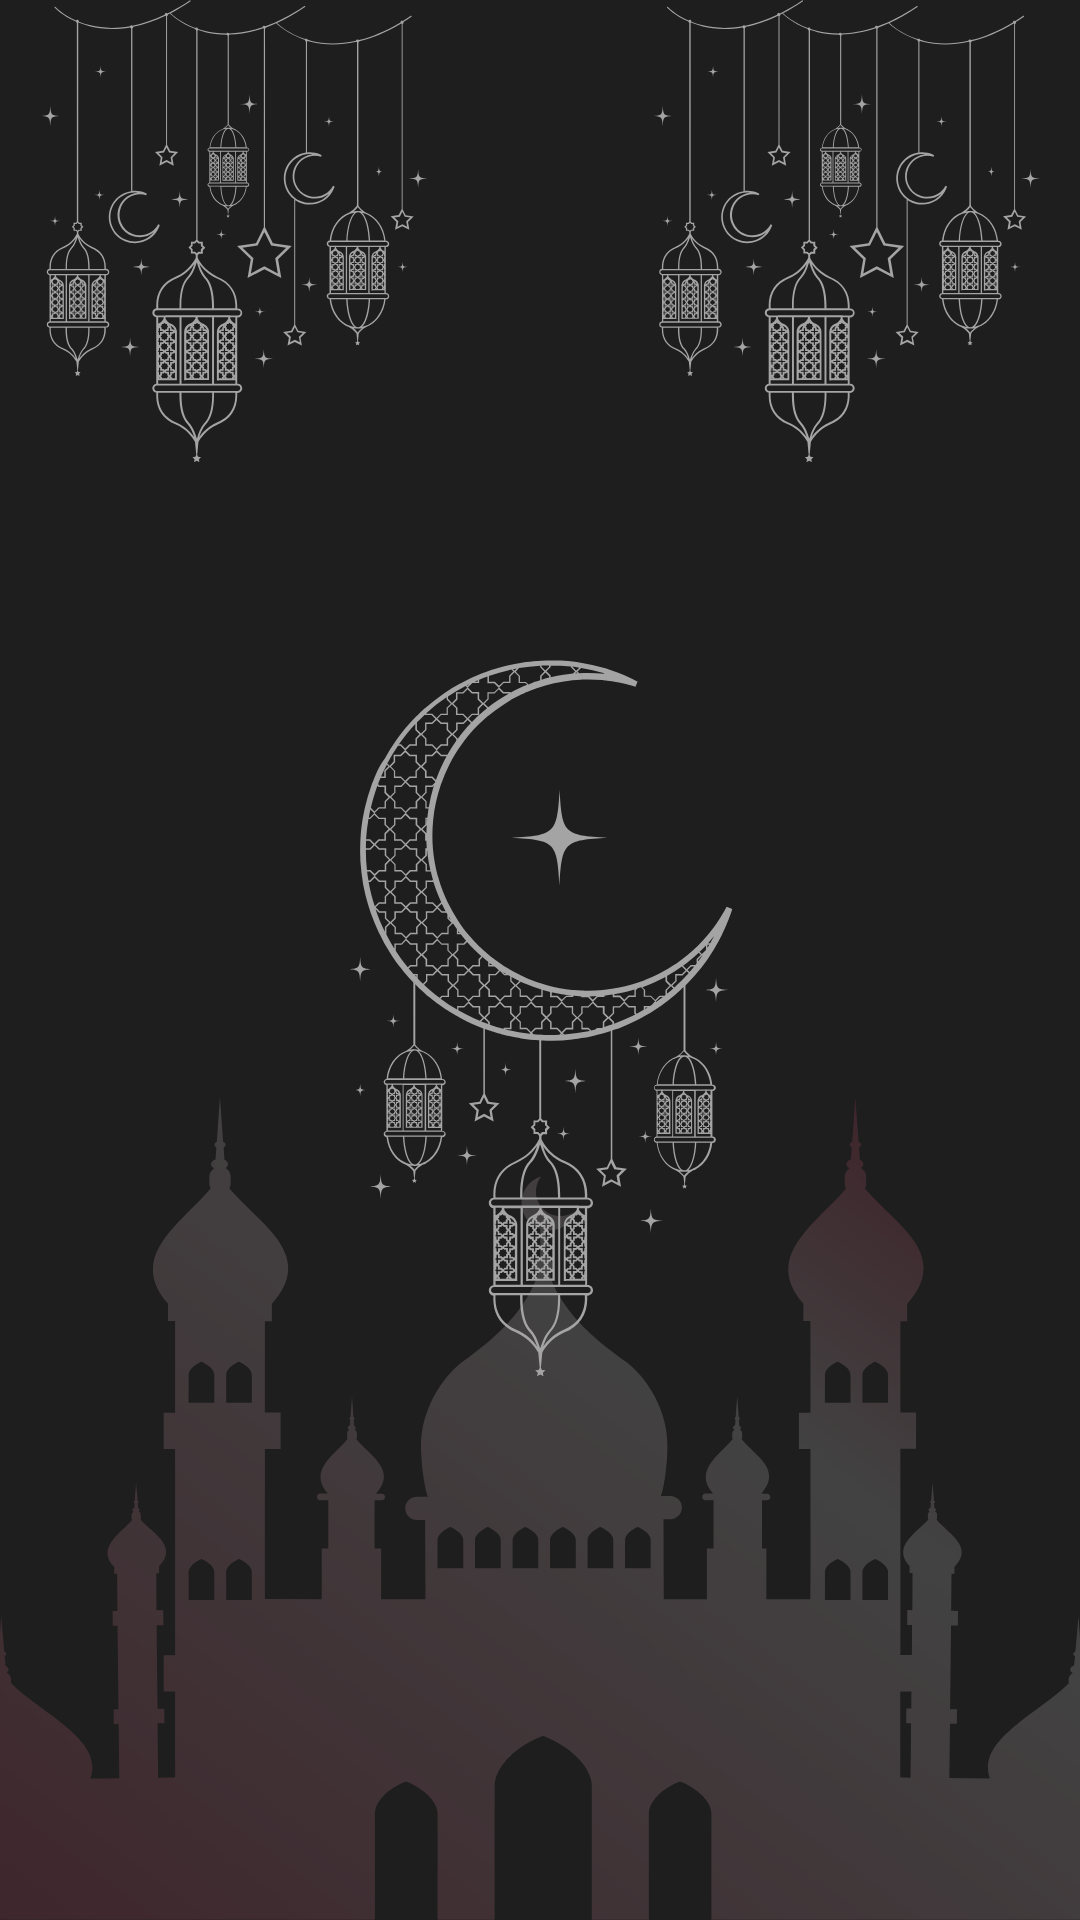
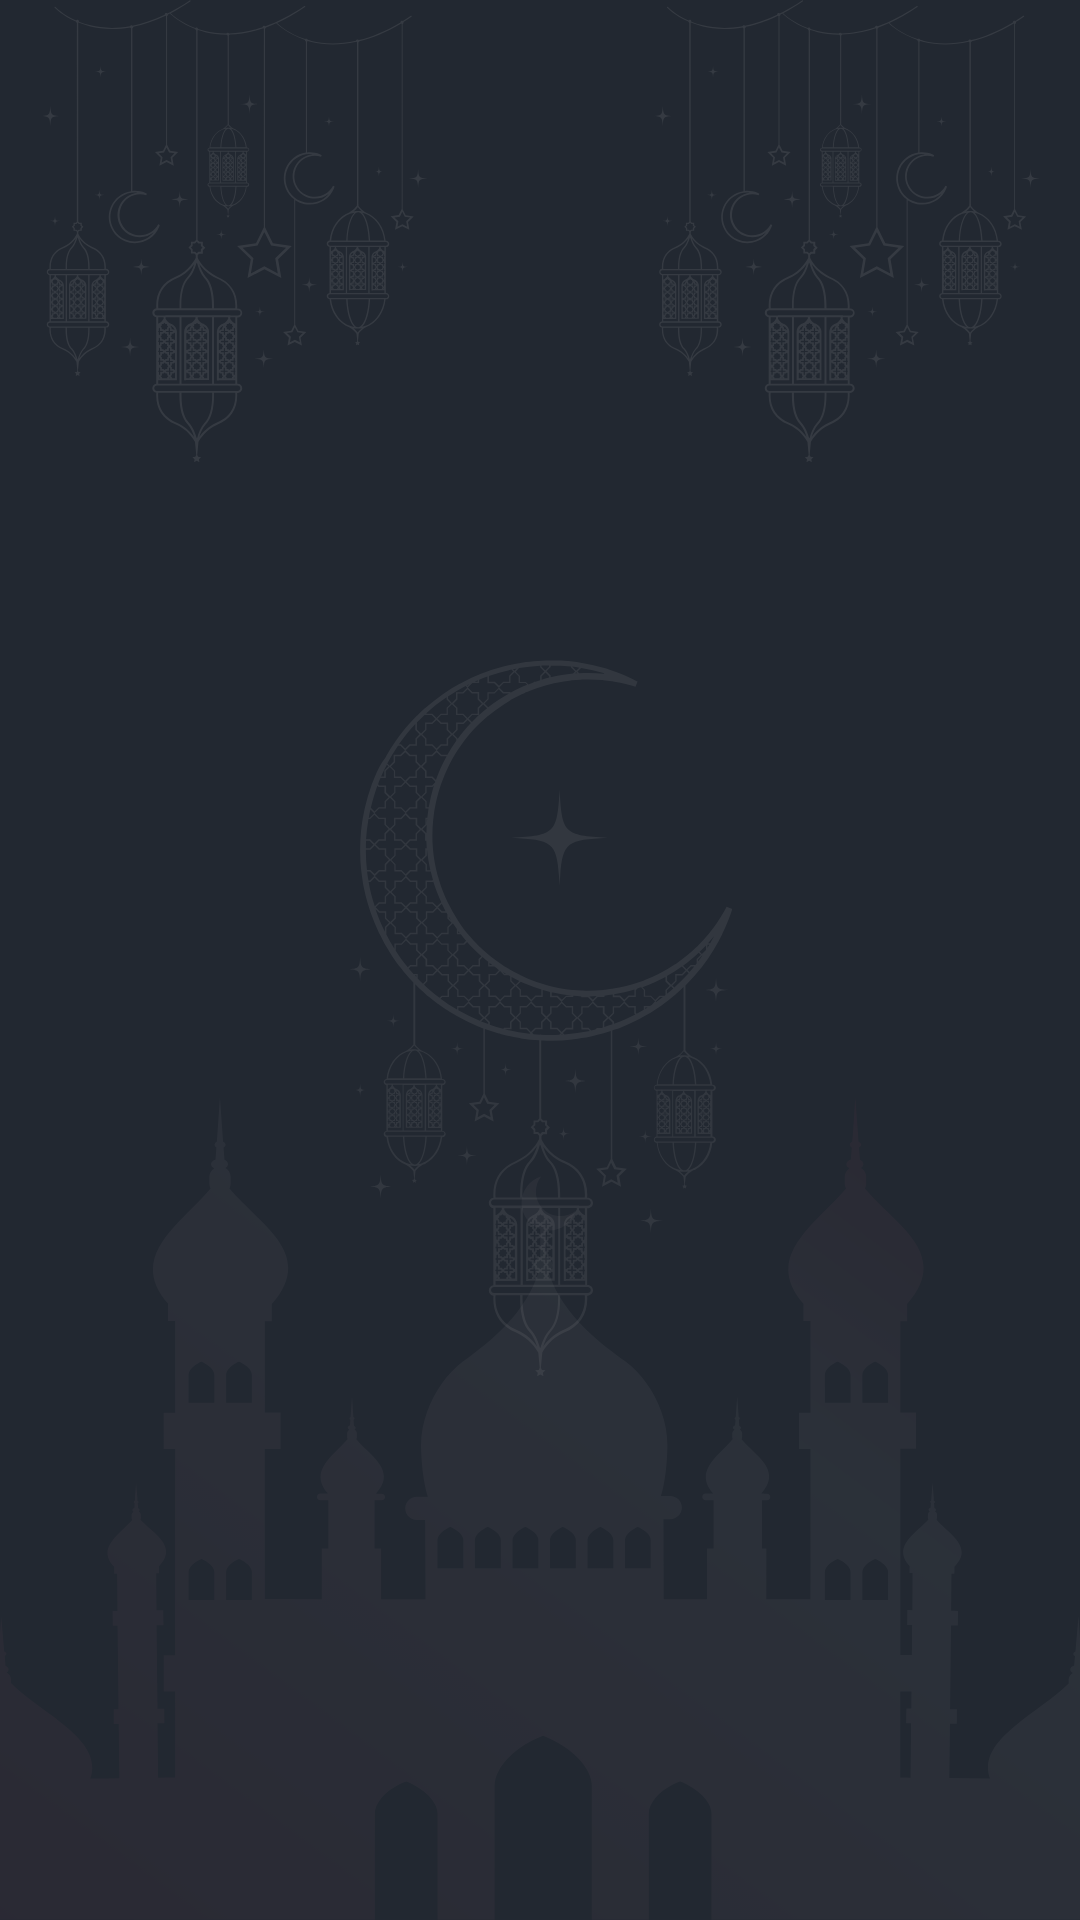
Dark Theme Added

diff --git a/src/app/(tabs)/settings.tsx b/src/app/(tabs)/settings.tsx
@@ -1,48 +1,40 @@
-import { Switch, Text, View, TouchableOpacity, useColorScheme } from 'react-native';
+import { Switch, Text, View, TouchableOpacity } from 'react-native';
 import React, { useEffect, useState } from 'react';
 import { MaterialIcons } from '@expo/vector-icons';
-import AsyncStorage from '@react-native-async-storage/async-storage';
 import { router } from 'expo-router';
+import AsyncStorage from '@react-native-async-storage/async-storage';
+import { useColorScheme } from 'nativewind';
 
 export default function settings() {
-  const deviceColorScheme = useColorScheme(); // Cihazın genel tema tercihini al
-  const [isDarkModeEnabled, setisDarkModeEnabled] = useState(deviceColorScheme === 'dark'); // Default tema tercihi
+  const { toggleColorScheme, colorScheme } = useColorScheme();
 
-  useEffect(() => {
-    // AsyncStorage'den kaydedilmiş tema tercihini al
-    const fetchThemePreference = async () => {
-      try {
-        const storedThemePreference = await AsyncStorage.getItem('darkModeEnabled');
-        setisDarkModeEnabled(storedThemePreference === 'true');
-      } catch (error) {
-        console.error('Error fetching theme preference:', error);
-      }
-    };
-
-    fetchThemePreference();
-  }, []);
-
-  const toggleSwitch = () => {
-    setisDarkModeEnabled((previousState) => !previousState);
-    AsyncStorage.setItem('darkModeEnabled', String(!isDarkModeEnabled)); // Koyu mod durumunu sakla
-    console.warn(isDarkModeEnabled);
+  const toggleSwitch = async () => {
+    try {
+      await AsyncStorage.setItem('mode', colorScheme === 'light' ? 'dark' : 'light');
+      toggleColorScheme();
+    } catch (error) {
+      console.error('Error saving mode:', error);
+    }
   };
 
   return (
-    <View
-      className={`flex-1 justify-center items-center p-16 ${isDarkModeEnabled ? 'bg-[#525252]' : 'bg-[#FFFFFF]'}`}>
-      <View className="flex-row bg-[#EDEDED] w-full h-14 rounded-xl justify-between items-center pl-5">
-        <Text className="font-semibold text-[textColor]">Koyu Mod</Text>
+    <View className="flex-1 justify-center items-center p-16 bg-light-background dark:bg-dark-background">
+      <View className="flex-row bg-light-settingsItem dark:bg-dark-settingsItem w-full h-14 rounded-xl justify-between items-center pl-5">
+        <Text className="font-semibold text-light-secondary dark:text-dark-secondary">
+          Koyu Mod
+        </Text>
         <Switch
           trackColor={{ false: '#DDDDDD', true: '#171717' }}
-          thumbColor={isDarkModeEnabled ? '#DA0037' : '#DA0037'}
+          thumbColor={'#DA0037'}
           ios_backgroundColor="#444444"
           onValueChange={toggleSwitch}
-          value={isDarkModeEnabled}
+          value={colorScheme == 'light' ? false : true}
         />
       </View>
-      <View className="flex-row bg-[#EDEDED] w-full h-14 rounded-xl justify-between items-center pl-5 mt-5">
-        <Text className="font-semibold text-[textColor]">Uygulamayı Sıfırla</Text>
+      <View className="flex-row bg-light-settingsItem dark:bg-dark-settingsItem w-full h-14 rounded-xl justify-between items-center pl-5 mt-5">
+        <Text className="font-semibold text-light-secondary dark:text-dark-secondary">
+          Uygulamayı Sıfırla
+        </Text>
         <TouchableOpacity
           onPress={() => {
             AsyncStorage.clear();

diff --git a/src/components/imsakAndIftarCountdown.tsx b/src/components/imsakAndIftarCountdown.tsx
@@ -1,6 +1,5 @@
 import { Text, View } from 'react-native';
 import React, { useEffect, useState } from 'react';
-import { lightColors, darkColors } from 'src/utils/colors';
 import { DateTime, Interval } from 'luxon';
 import { formatTime } from '../utils/functions';
 
@@ -16,8 +15,6 @@ export default function ImsakAndIftarCountdown({
   const [timeRemainingImsak, setTimeRemainingImsak] = useState<string>('');
   const [timeRemainingAkşam, setTimeRemainingAkşam] = useState<string>('');
   const [isImsakTime, setIsImsakTime] = useState<boolean>();
-
-  const color = lightColors;
 
   useEffect(() => {
     if (todayPrayerTimes && tomorrowPrayerTimes) {
@@ -71,20 +68,20 @@ export default function ImsakAndIftarCountdown({
 
   return (
     <View className="flex-auto items-center ">
-      <Text className={`mb-[10] color-[${color.secondary}]/50`}>
+      <Text className={`mb-[10] color-light-secondary/50 dark:color-dark-secondary/50`}>
         {todayPrayerTimes.HicriTarihUzun} / {todayPrayerTimes.MiladiTarihKisa}
       </Text>
 
-      <Text className="font-bold text-2xl">
+      <Text className="font-bold text-2xl color-light-secondary dark:color-dark-secondary">
         {isImsakTime ? 'İmsak Vaktine Kalan Süre' : ' İftar Vaktine Kalan Süre'}
       </Text>
-      <Text className={`text-[80px] font-extrabold color-[${color.primary}]`}>
+      <Text className={`text-[80px] font-extrabold color-light-primary dark:color-dark-primary`}>
         {isImsakTime ? timeRemainingImsak : timeRemainingAkşam}
       </Text>
       <View className="flex-row gap-[60] -mt-3 ">
-        <Text className={`color-[${color.secondary}]/50`}>saat</Text>
-        <Text className={`color-[${color.secondary}]/50`}>dakika</Text>
-        <Text className={`color-[${color.secondary}]/50`}>saniye</Text>
+        <Text className={`color-light-secondary/50 dark:color-dark-secondary/50`}>saat</Text>
+        <Text className={`color-light-secondary/50 dark:color-dark-secondary/50`}>dakika</Text>
+        <Text className={`color-light-secondary/50 dark:color-dark-secondary/50`}>saniye</Text>
       </View>
     </View>
   );

diff --git a/src/components/prayerTimesItem.tsx b/src/components/prayerTimesItem.tsx
@@ -1,6 +1,5 @@
 import { Text, View } from 'react-native';
 import React, { useEffect, useState } from 'react';
-import { lightColors, darkColors } from 'src/utils/colors';
 import { DateTime, Interval } from 'luxon';
 import { formatTime } from '../utils/functions';
 
@@ -10,7 +9,6 @@ interface PrayerTimeItemProps {
 export default function PrayerTimesItem({ todayPrayerTimes }: PrayerTimeItemProps) {
   const [nextPrayer, setNextPrayer] = useState<string>('');
   const [nextVakit, setNextVakit] = useState<string>('');
-  const color = lightColors;
 
   useEffect(() => {
     if (todayPrayerTimes) {
@@ -76,8 +74,8 @@ export default function PrayerTimesItem({ todayPrayerTimes }: PrayerTimeItemProp
   const PrayerTimeItem = ({ title, time }: any) => {
     return (
       <View className="justify-center items-center mb-[5] mx-2">
-        <Text className="font-bold">{title}</Text>
-        <Text className="font-semibold color-[#DA0037]">{time}</Text>
+        <Text className="font-bold color-light-secondary dark:color-dark-secondary">{title}</Text>
+        <Text className="font-semibold color-light-primary dark:color-dark-primary">{time}</Text>
       </View>
     );
   };
@@ -86,8 +84,9 @@ export default function PrayerTimesItem({ todayPrayerTimes }: PrayerTimeItemProp
     <View className="flex-auto justify-end mb-[90] items-center ">
       <View className="mb-3">
         {nextPrayer && (
-          <Text className="font-bold  text-2xl">
-            {nextVakit} Vaktine <Text className={`color-[${color.primary}]`}>{nextPrayer}</Text>
+          <Text className="font-bold text-2xl color-light-secondary dark:color-dark-secondary">
+            {nextVakit} Vaktine{' '}
+            <Text className="color-light-primary dark:color-dark-primary">{nextPrayer}</Text>
           </Text>
         )}
       </View>

diff --git a/src/app/(tabs)/prayer.tsx b/src/app/(tabs)/prayer.tsx
@@ -6,11 +6,14 @@ import LocationItem from '../../components/locationItem';
 import ImsakAndIftarCountdown from '../../components/imsakAndIftarCountdown';
 import PrayerTimesItem from '../../components/prayerTimesItem';
 import FetchPrayerTimes from '../../components/fetchPrayerTimes';
+import { useColorScheme } from 'nativewind';
 
 export default function Prayer() {
   const [districtID, setDistrictID] = useState(null);
   const [todayPrayerTimes, setTodayPrayerTimes] = useState<any | null>(null);
   const [tomorrowPrayerTimes, setTomorrowPrayerTimes] = useState<any | null>(null);
+
+  const { colorScheme } = useColorScheme();
 
   useEffect(() => {
     const getDistrictValue = async () => {
@@ -20,16 +23,15 @@ export default function Prayer() {
     getDistrictValue();
   }, [districtID]);
 
-  // const backgroundImageSource = isDarkMode
-  //   ? require('../../assets/images/background.png')
-  //   : require('../../assets/images/backgroundDark.png');
-
   return (
     <>
       <ImageBackground
-        source={require('../../assets/images/background.png')}
-        className="flex-1"
-        imageStyle={{ opacity: 0.2 }}>
+        source={
+          colorScheme == 'light'
+            ? require('../../assets/images/backgroundLight.png')
+            : require('../../assets/images/backgroundDark.png')
+        }
+        className="flex-1">
         <FetchPrayerTimes
           districtID={districtID}
           setTodayPrayerTimes={setTodayPrayerTimes}

diff --git a/src/app/(tabs)/_layout.tsx b/src/app/(tabs)/_layout.tsx
@@ -1,17 +1,40 @@
-import React from 'react';
+import React, { useEffect } from 'react';
 import { Tabs } from 'expo-router';
 import { store } from '../../redux/store';
 import { Provider } from 'react-redux';
 import { MaterialIcons } from '@expo/vector-icons';
 import '../../../global.css';
 
+import AsyncStorage from '@react-native-async-storage/async-storage';
+import { useColorScheme } from 'nativewind';
+
 export default function _layout() {
+  const { colorScheme, setColorScheme } = useColorScheme();
+
+  const getDatas = async () => {
+    try {
+      let mode = await AsyncStorage.getItem('mode');
+      if (!mode) {
+        mode = 'light';
+      }
+      await AsyncStorage.setItem('mode', mode);
+      setColorScheme(mode === 'light' ? 'light' : 'dark');
+    } catch (error) {
+      console.error('Error reading mode:', error);
+    }
+  };
+
+  useEffect(() => {
+    getDatas();
+  }, []);
+
   return (
     <Provider store={store}>
       <Tabs
         screenOptions={{
           tabBarShowLabel: false,
           tabBarActiveTintColor: '#DA0037',
+          tabBarInactiveTintColor: colorScheme == 'dark' ? '#EEEEEE' : '#171717',
           tabBarStyle: {
             position: 'absolute',
             backgroundColor: 'transparent',

diff --git a/src/components/locationItem.tsx b/src/components/locationItem.tsx
@@ -3,13 +3,10 @@ import React, { useEffect, useState } from 'react';
 import AsyncStorage from '@react-native-async-storage/async-storage';
 import { router } from 'expo-router';
 import { FontAwesome6 } from '@expo/vector-icons';
-import { lightColors, darkColors } from 'src/utils/colors';
 
 export default function LocationItem() {
   const [cityName, setCityName] = useState<string | null>('');
   const [districtName, setDistrictName] = useState<string | null>('');
-
-  const color = lightColors;
 
   useEffect(() => {
     const getCityNameAndDistrictNameFromAsyncStorage = async () => {
@@ -30,8 +27,8 @@ export default function LocationItem() {
           router.navigate('/locationSelect');
         }}>
         <View className="flex-row items-center">
-          <FontAwesome6 name="location-dot" size={24} color={color.primary} className="mr-2" />
-          <Text className={`color-[${color.primary}] font-bold p-[3]`}>
+          <FontAwesome6 name="location-dot" size={24} color="#DA0037" className="mr-2" />
+          <Text className={`color-light-primary dark:color-dark-primary font-bold p-[3]`}>
             {cityName} / {districtName}
           </Text>
         </View>

diff --git a/tailwind.config.js b/tailwind.config.js
@@ -1,10 +1,18 @@
 /** @type {import('tailwindcss').Config} */
+
+import { lightColors, darkColors } from './src/utils/colors';
+
 module.exports = {
   content: ['./index.{js,ts,tsx}', './src/**/*.{js,ts,tsx}'],
 
   presets: [require('nativewind/preset')],
   theme: {
-    extend: {},
+    extend: {
+      colors: {
+        light: lightColors,
+        dark: darkColors,
+      },
+    },
   },
   plugins: [],
 };

diff --git a/src/utils/colors.ts b/src/utils/colors.ts
@@ -3,11 +3,13 @@ export const lightColors = {
   secondary: '#171717',
   gray: '#444444',
   background: '#EDEDED',
+  settingsItem: '#DDDDDD',
 };
 
 export const darkColors = {
   primary: '#DA0037',
-  secondary: '#EDEDED',
-  gray: '#A0AEC0',
-  background: '#2D3748',
+  secondary: '#EEEEEE',
+  gray: '#444444',
+  background: '#222831',
+  settingsItem: '#31363F',
 };

diff --git a/src/app/locationSelect.tsx b/src/app/locationSelect.tsx
@@ -136,7 +136,7 @@ const DropdownComponent = () => {
   return (
     <>
       <ImageBackground
-        source={require('../assets/images/background.png')}
+        source={require('../assets/images/backgroundLight.png')}
         className="flex-1"
         imageStyle={{ opacity: 0.1 }}>
         <View className=" flex-1 justify-center">
